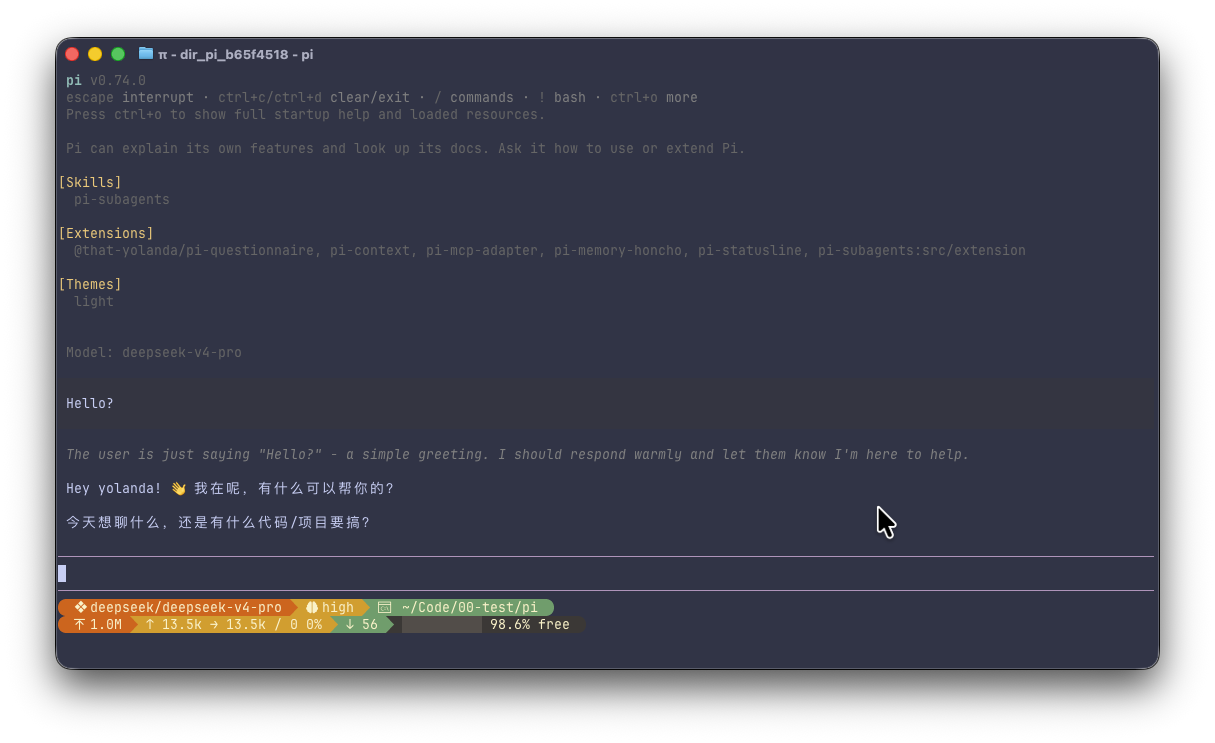
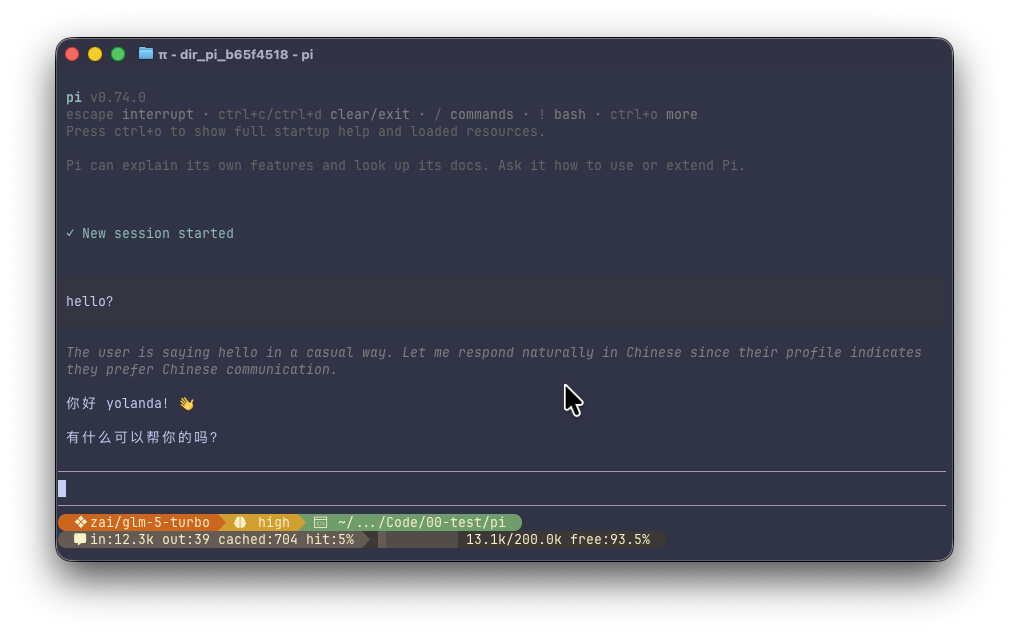
docs(statusline): update changelog for 0.2.2 and screenshot

diff --git a/pi-statusline/CHANGELOG.md b/pi-statusline/CHANGELOG.md
@@ -1,5 +1,13 @@
 # Changelog
 
+## 0.2.2 (2026-05-16)
+
+- Extract color roles into THEME config object for easier customization
+- Merge git branch and change stats into a single capsule segment
+- Consolidate token stats into one compact segment (in/out/cached/hit%)
+- Shorten long paths to last 3 segments with ~/.../ prefix
+- Update screenshot
+
 ## 0.2.1 (2026-05-15)
 
 - Use absolute GitHub raw URLs for images in README
